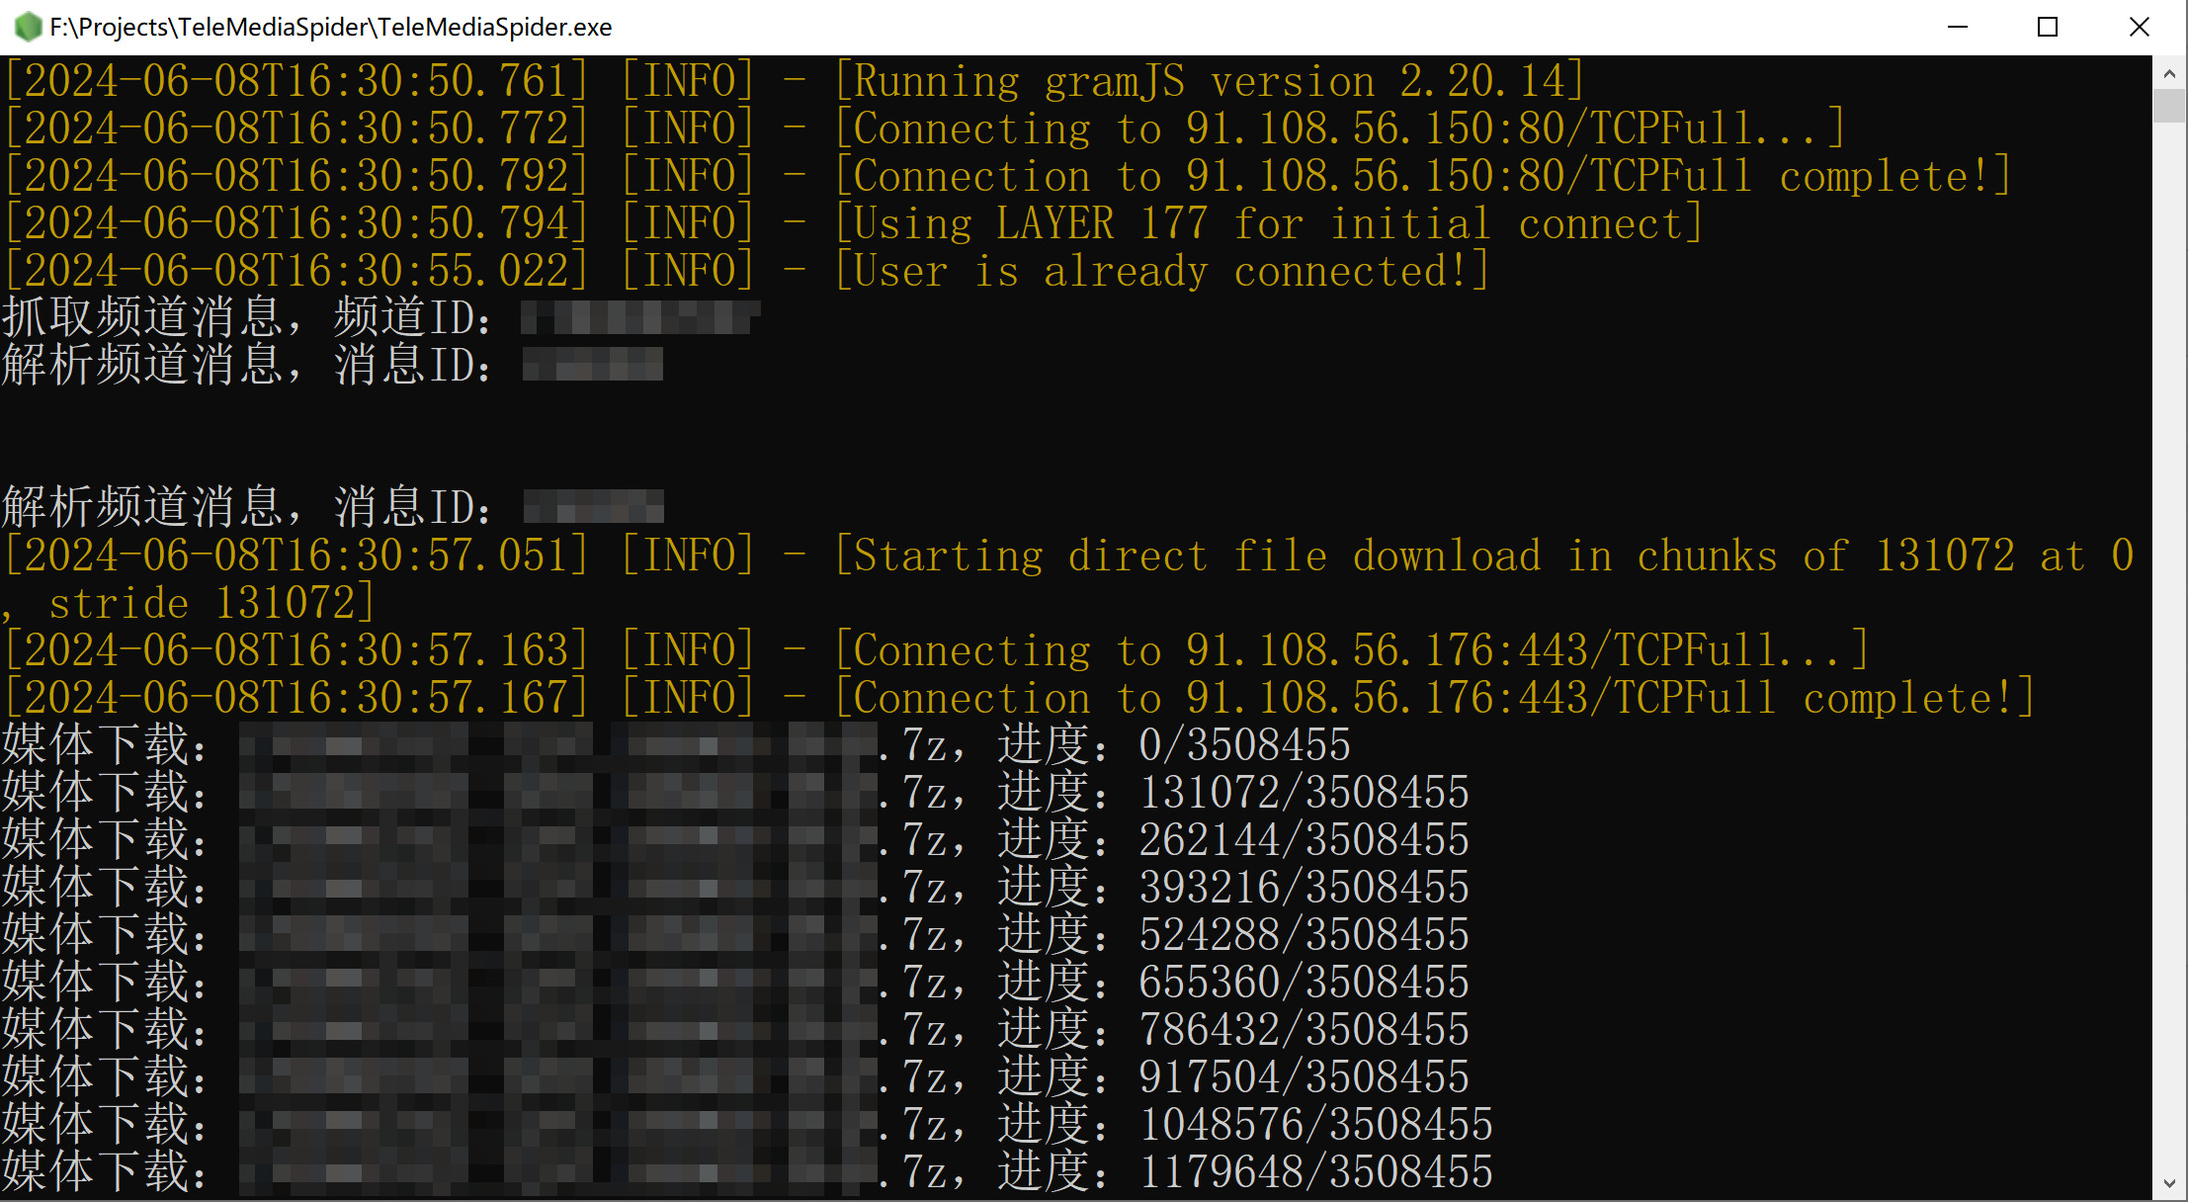
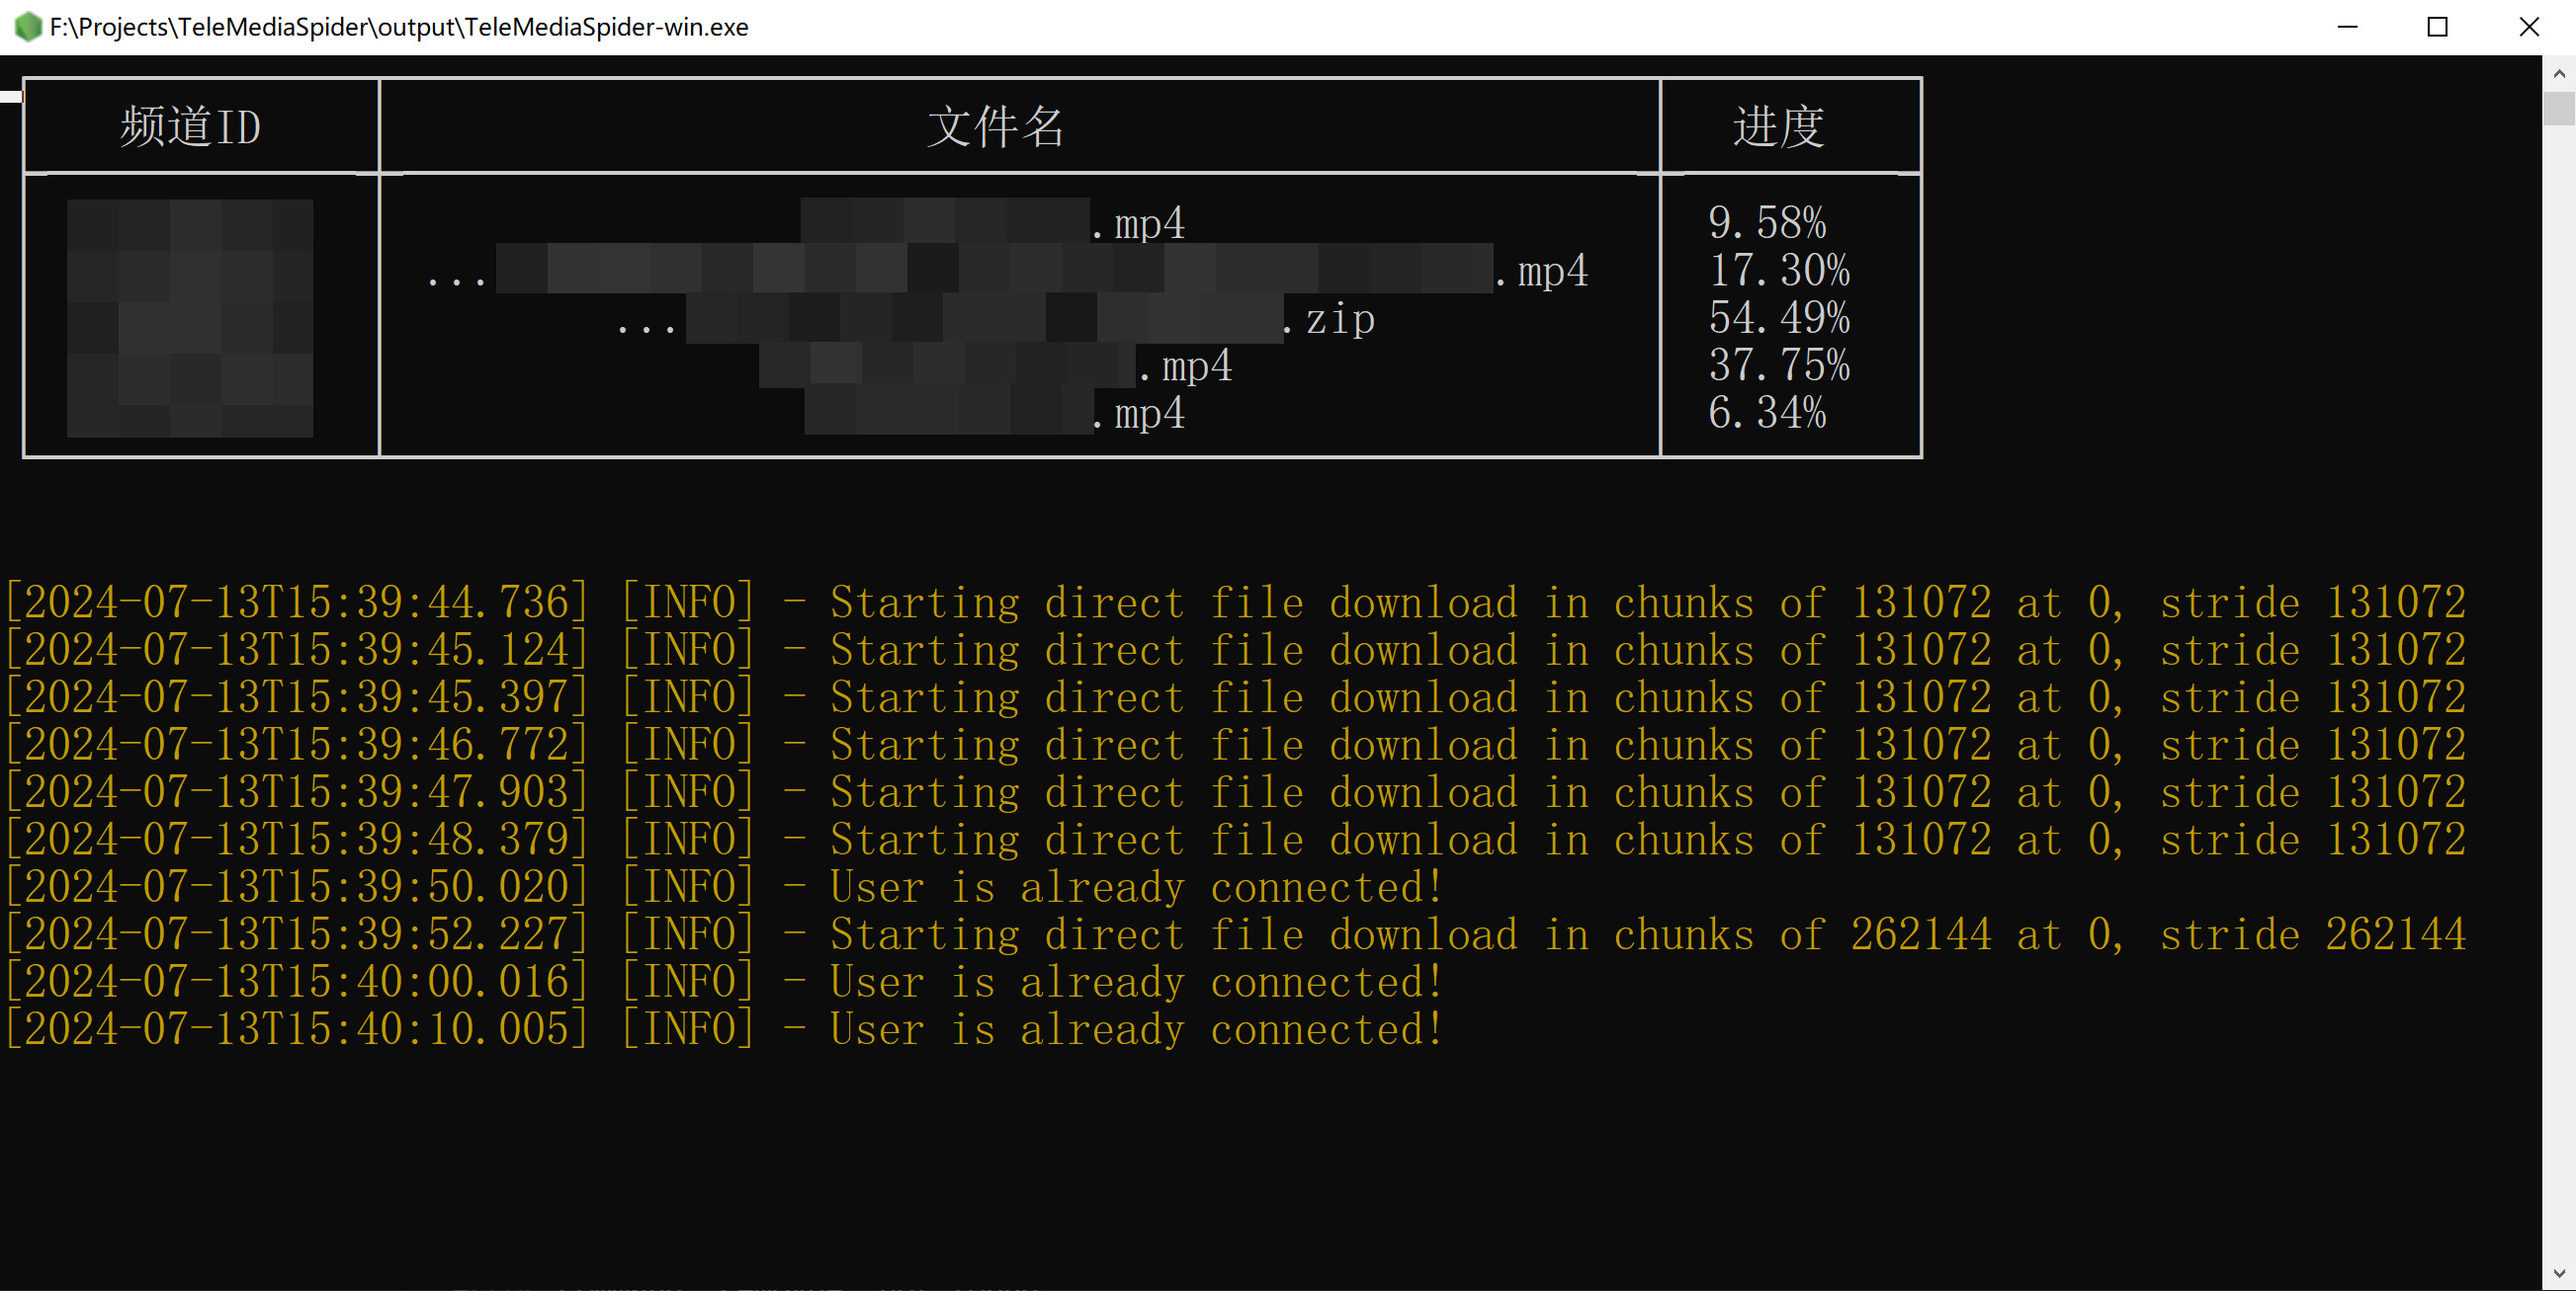
优化界面输出

Changed region(s): [[0.0, 0.0, 1.0, 1.0]]

diff --git a/src/index.ts b/src/index.ts
@@ -6,33 +6,60 @@ import { writeFile } from 'fs/promises';
 import input from 'input';
 import mimetics from 'mimetics';
 import minimist from 'minimist';
-import { Api, TelegramClient } from 'telegram';
+import { Api, Logger, TelegramClient } from 'telegram';
+import { LogLevel } from 'telegram/extensions/Logger';
 import { StringSession } from 'telegram/sessions';
-import { array2dictionary, DataDir, waitForever, waitTill } from './functions';
+import { array2dictionary, consoletable, DataDir, waitForever, waitTill } from './functions';
 import { AnnotatedDictionary, ArrayValueType, UnwrapAnnotatedDictionary } from './types';
 
 const argv = minimist(process.argv.slice(2));
 
-let client: TelegramClient;
-let tonfig: Tonfig;
+class MyLogger extends Logger {
+    public format(message: string, level: string, messageFormat?: string) {
+        return (messageFormat || this.messageFormat)
+            .replace("%t", this.getDateTime())
+            .replace("%l", level.toUpperCase())
+            .replace("%m", message);
+    }
+    public log(level: LogLevel, message: string, color: string) {
+        let multiLine = message.includes("\n");
+        let messageFormat = "";
 
-let mainTimer: Cron;
-let mediaSpiderTimer: Cron;
+        if (multiLine) {
+            messageFormat = "[%t] [%l]\n%m";
+        } else {
+            messageFormat = "[%t] [%l] - %m";
+        }
 
-let channelInfos: Awaited<ReturnType<typeof getChannelInfos>>;
+        const log = color + this.format(message, level, messageFormat) + this['colors'].end;
 
-const waitQueue: AnnotatedDictionary<{
-    channelId: string,
-    channelTitle: string,
-    downloading: boolean,
-    messages: Api.MessageService[],
-    medias: string[],
-}, "channelId"> = {};
+        if (!uiTimer || uiTimer['_states'].paused) {
+            console.log(log);
+        }
 
-let execQueue;
+        addLogHistory(log);
+    }
+}
+
+function addLogHistory(message: string) {
+    const messageLines = message.split("\n");
+
+    if (messageLines.length == maxLogHistory) {
+        logHistory = messageLines;
+    } else if (messageLines.length > maxLogHistory) {
+        logHistory = messageLines.slice(messageLines.length  - maxLogHistory);
+    } else {
+        for (const message of messageLines) {
+            if (logHistory.length >= maxLogHistory) {
+                logHistory.shift();
+            }
+            logHistory.push(message);
+        }
+    }
+}
 
 function workerErrorHandler(error: any, job: Cron) {
-    console.error(`「${job.name}」任务过程中发生错误：\n${error}`);
+    logger.error(`「${job.name}」任务过程中发生错误：\n${error}`);
 };
 
 async function getChannelInfos(client: TelegramClient) {
@@ -205,17 +232,13 @@ async function getChannelMessages(client: TelegramClient, channelId: string, las
     return { lastId: lastId || 0, messages };
 }
 
-async function downloadChannelMedia(client: TelegramClient, channelId: string, message: Api.MessageService, medias?: string[]) {
+async function downloadChannelMedia(client: TelegramClient, channelId: string, message: Api.MessageService, channelInfo: UnwrapAnnotatedDictionary<typeof waitQueue>, medias?: string[]) {
     const photo = message.photo as Api.Photo;
     const video = message.video as Api.Document;
     const audio = message.audio as Api.Document;
     const file  = message.document && message.document.attributes.length == 1 && message.document.attributes[0].className == "DocumentAttributeFilename" ? message.file : null;
 
     const topicId = message.replyTo?.replyToTopId || message.replyToMsgId;
-
-    // console.log(message.id);
-    // console.log(topicId);
-    // console.log(message.message);
 
     if (photo && (!medias || medias.includes('photo'))) {
         let media = message.media as Api.MessageMediaDocument;
@@ -247,9 +270,12 @@ async function downloadChannelMedia(client: TelegramClient, channelId: string, m
 
         const fullFileName = noExt ? filename : `${filename}.${ext || 'jpg'}`;
 
+        channelInfo.fileName = fullFileName;
+
         const buffer = await client.downloadMedia(message.media, {
             progressCallback: (bytes, total) => {
-                console.log(`媒体下载：${fullFileName}，进度：${bytes}/${total}`);
+                channelInfo.downloadedBytes = bytes;
+                channelInfo.totalBytes = total;
             },
         });
 
@@ -286,9 +312,12 @@ async function downloadChannelMedia(client: TelegramClient, channelId: string, m
 
         const fullFileName = noExt ? filename : `${filename}.${ext || 'mp4'}`;
 
+        channelInfo.fileName = fullFileName;
+
         const buffer = await client.downloadMedia(message.media, {
             progressCallback: (bytes, total) => {
-                console.log(`媒体下载：${fullFileName}，进度：${bytes}/${total}`);
+                channelInfo.downloadedBytes = bytes;
+                channelInfo.totalBytes = total;
             },
         });
 
@@ -325,9 +354,12 @@ async function downloadChannelMedia(client: TelegramClient, channelId: string, m
 
         const fullFileName = noExt ? filename : `${filename}.${ext || 'mp3'}`;
 
+        channelInfo.fileName = fullFileName;
+
         const buffer = await client.downloadMedia(message.media, {
             progressCallback: (bytes, total) => {
-                console.log(`媒体下载：${fullFileName}，进度：${bytes}/${total}`);
+                channelInfo.downloadedBytes = bytes;
+                channelInfo.totalBytes = total;
             },
         });
 
@@ -364,15 +396,45 @@ async function downloadChannelMedia(client: TelegramClient, channelId: string, m
 
         const fullFileName = noExt ? filename : `${filename}.${ext || 'dat'}`;
 
+        channelInfo.fileName = fullFileName;
+
         const buffer = await client.downloadMedia(message.media, {
             progressCallback: (bytes, total) => {
-                console.log(`媒体下载：${fullFileName}，进度：${bytes}/${total}`);
+                channelInfo.downloadedBytes = bytes;
+                channelInfo.totalBytes = total;
             },
         });
 
         await writeFile(`${dir}/${fullFileName}`, buffer);
     }
 }
+
+let channelTable: any[] = [];
+let maxLogHistory = 10;
+let logHistory: string[] = [];
+
+let logger: Logger = new MyLogger();
+let client: TelegramClient;
+let tonfig: Tonfig;
+
+let uiTimer: Cron;
+let mainTimer: Cron;
+let mediaSpiderTimer: Cron;
+
+let channelInfos: Awaited<ReturnType<typeof getChannelInfos>>;
+
+const waitQueue: AnnotatedDictionary<{
+    channelId: string,
+    channelTitle: string,
+    downloading: boolean,
+    fileName: string,
+    downloadedBytes: bigInt.BigInteger,
+    totalBytes: bigInt.BigInteger,
+    messages: Api.MessageService[],
+    medias: string[],
+}, "channelId"> = {};
+
+let execQueue;
 
 async function mediaSpider() {
     await client.connect();
@@ -411,6 +473,9 @@ async function mediaSpider() {
                 channelId: channelId,
                 channelTitle: channelTitle,
                 downloading: false,
+                fileName: '',
+                downloadedBytes: null,
+                totalBytes: null,
                 messages: [],
                 medias: mediasArr,
             };
@@ -428,15 +493,9 @@ async function mediaSpider() {
          */
         if (waitQueue[channelId].messages.length) continue;
 
-        console.log(`抓取频道消息，频道ID：${channelId}`);
-
         const messages = await getChannelMessages(client, channelId, tonfig.get(['spider', 'lastIds', channelId], 0), undefined, -1);
 
         for (const message of messages.messages) {
-            // console.log(message.id);
-            // console.log(message.message);
-            // console.log("\n\n");
-
             waitQueue[channelId].messages.push(message);
 
             execQueue.push();
@@ -444,7 +503,49 @@ async function mediaSpider() {
     }
 }
 
+async function render() {
+    console.clear();
+
+    if (channelTable && channelTable.length) {
+        console.log(consoletable(channelTable));
+
+        uiTimer.stop();
+        return;
+    }
+
+    const downloading = Object.values(waitQueue).filter(v => v.downloading == true && v.totalBytes && !v.totalBytes.isZero());
+
+    if (downloading.length) {
+        const maxFileNameLength = 25;
+        const tableData = downloading.map(v => {
+            let fileName = v.fileName;
+
+            if (fileName.length > maxFileNameLength) {
+                fileName = '...' + fileName.substring(fileName.length - maxFileNameLength);
+            }
+
+            const downloaded = v.downloadedBytes.toJSNumber();
+            const total = v.totalBytes.toJSNumber();
+            const percent = (downloaded / total * 100).toFixed(2);
+
+            return {
+                "频道ID": v.channelId,
+                "文件名": fileName,
+                "进度": `${percent}%`,
+            };
+        });
+
+        console.log(consoletable(tableData));
+    }
+
+    for (const log of logHistory) {
+        console.log(log);
+    }
+}
+
 async function main() {
+    logger = new MyLogger();
+
     tonfig = await Tonfig.loadFile(DataDir() + '/config.toml', {
         account: {
             apiId: 0,
@@ -480,7 +581,7 @@ async function main() {
     const account = tonfig.get<string>("account.account");
 
     if (!apiId || !apiHash || !account) {
-        console.warn('请编辑 data/config.toml 进行账号配置，并重启软件');
+        logger.warn('请编辑 data/config.toml 进行账号配置，并重启软件');
         await waitForever();
     }
 
@@ -496,6 +597,7 @@ async function main() {
     };
 
     client = new TelegramClient(new StringSession(tonfig.get<string>("account.session", "")), apiId, apiHash, {
+        baseLogger: logger,
         connectionRetries: 5,
         useWSS: false,
         proxy: proxy.ip && proxy.port ? proxy : undefined,
@@ -505,7 +607,7 @@ async function main() {
         phoneNumber: account,
         password: async () => await input.text("请输入密码："),
         phoneCode: async () => await input.text("请输入验证码："),
-        onError: (err) => console.log(err),
+        onError: (err) => logger.error(err.message),
     });
 
     if (!tonfig.get<string>("account.session")) {
@@ -514,15 +616,22 @@ async function main() {
         await tonfig.save();
     }
 
+    if (uiTimer) {
+        uiTimer.resume();
+    }
+
     channelInfos = await getChannelInfos(client);
 
     const listChannels = !!argv['list'];
 
     if (listChannels) {
+        channelTable = [];
+
         for (const channel of channelInfos) {
-            console.log(`频道ID：${channel.id.toString()}`);
-            console.log(`频道名：${channel.title}`);
-            console.log('');
+            channelTable.push({
+                "ID": channel.id.toString(),
+                "频道名": channel.title,
+            });
         }
 
         await waitForever();
@@ -545,16 +654,12 @@ async function main() {
         const message = channelInfo.messages[0];
         const mediasArr = channelInfo.medias;
 
-        console.log(`解析频道消息，频道ID：${channelId}，消息ID：${message.id}`);
-
-        await downloadChannelMedia(client, channelId, message, mediasArr).then(async () => {
+        await downloadChannelMedia(client, channelId, message, channelInfo, mediasArr).then(async () => {
             channelInfo.messages.shift();
 
             // 下载成功，保存当前频道位置
             tonfig.set(['spider', 'lastIds', channelId], message.id);
             await tonfig.save();
-
-            console.log("\n");
         }, () => {
             // 下载失败，啥也不用管，后面根据队列自动重试
         }).finally(() => {
@@ -577,6 +682,13 @@ async function main() {
 
     await waitForever();
 }
+
+uiTimer = Cron("*/2 * * * * *", {
+    name: 'ui',
+    protect: true,
+    paused: true,
+    catch: workerErrorHandler,
+}, async () => await render());
 
 mainTimer = Cron("*/5 * * * *", {
     name: 'main',

diff --git a/src/functions.ts b/src/functions.ts
@@ -1,4 +1,6 @@
-import { basename, dirname } from "node:path";
+import { Console } from 'console';
+import { basename, dirname } from 'node:path';
+import { Transform } from 'stream';
 
 export function AppDir() {
     const executor = basename(process.execPath);
@@ -127,4 +129,27 @@ export async function retry<T = any>(promise: () => Promise<T>, maxRetries: numb
 
         return retry(promise, maxRetries - 1, retryPolicy); 
     });
+}
+
+export function consoletable(input: any) {
+    // @see https://stackoverflow.com/a/67859384
+    const ts = new Transform({
+        transform(chunk, enc, cb) {
+            cb(null, chunk);
+        }
+    });
+    const logger = new Console({ stdout: ts });
+    logger.table(input);
+    const table = (ts.read() || '').toString();
+    let result = '';
+    for (let row of table.split(/[\r\n]+/)) {
+        let r = row.replace(/[^┬]*┬/, '┌');
+        r = r.replace(/^├─*┼/, '├');
+        r = r.replace(/│[^│]*/, '');
+        r = r.replace(/^└─*┴/, '└');
+        r = r.replace(/'/g, ' ');
+        result += `${r}\n`;
+    }
+
+    return result;
 }
